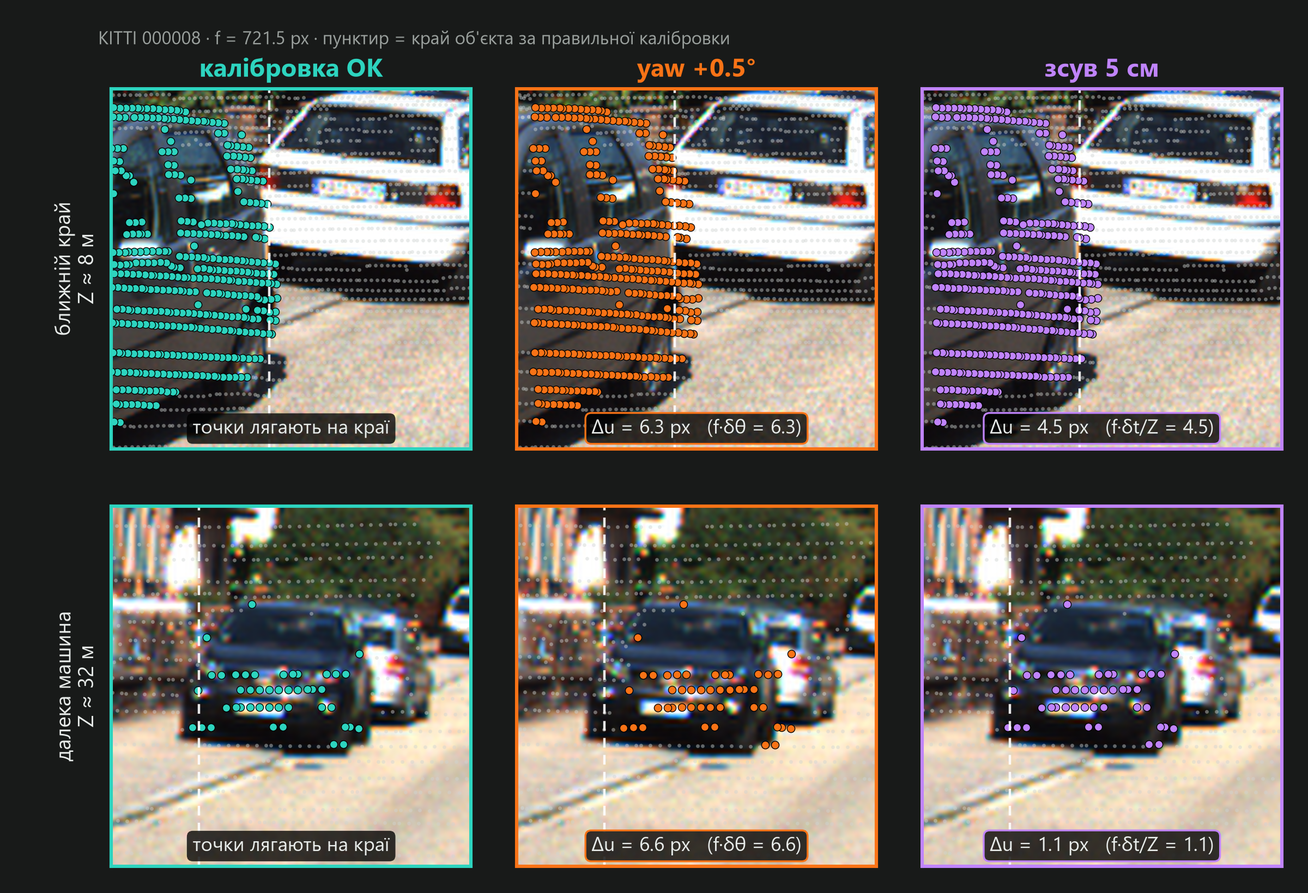
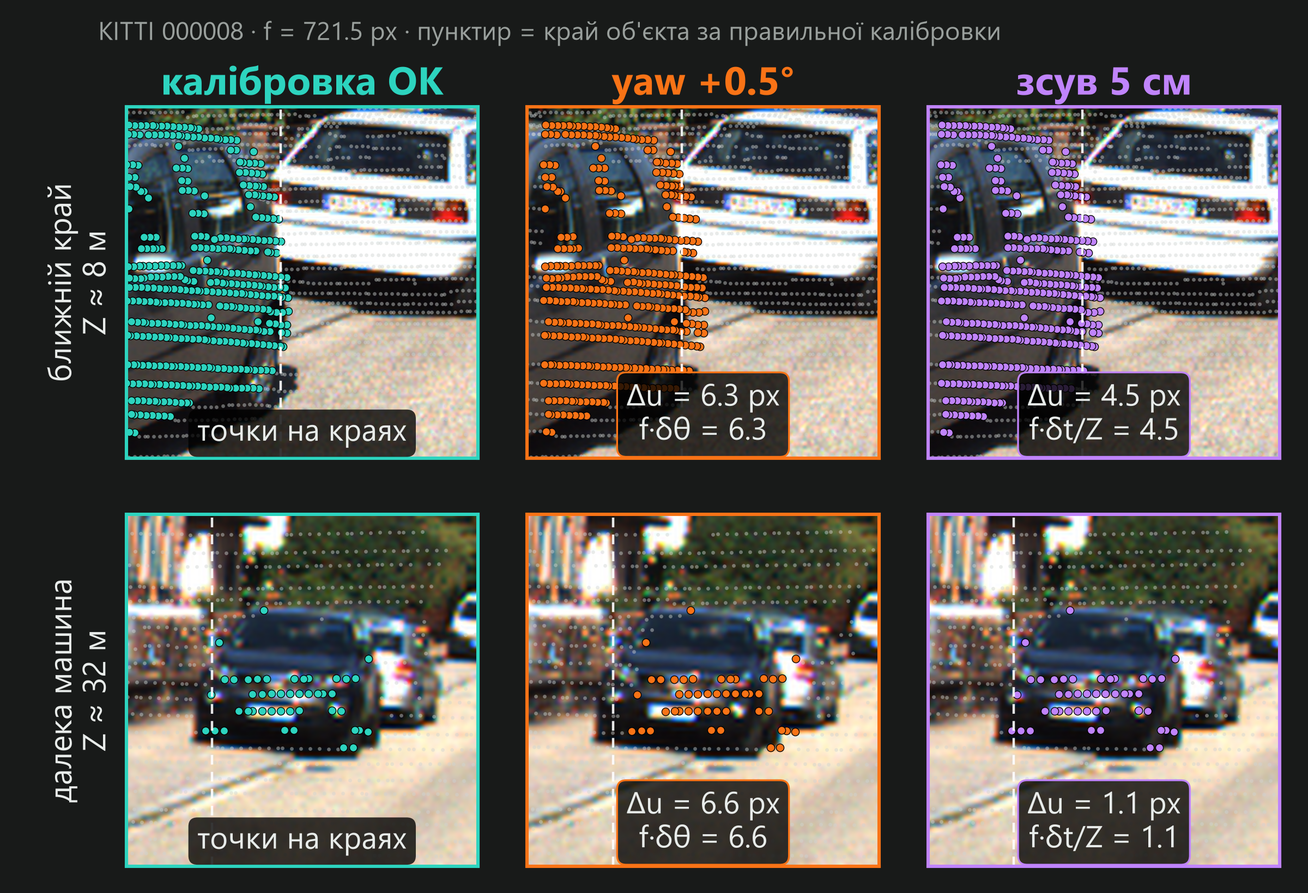
Slide 23: larger labels for slide-scale legibility

diff --git a/scripts/p23_calib_validation.py b/scripts/p23_calib_validation.py
@@ -52,7 +52,7 @@ WINDOWS = [("ближній край", 548, 178, 140, (4.0, 11.0), (334.85, 178.
 NOT_GROUND = Xc[1] < 1.45  # camera is 1.65 m above the road, y points down
 
 fig = plt.figure(figsize=(12, 8.2), facecolor=BG)
-gs = fig.add_gridspec(2, 3, left=0.075, right=0.99, top=0.90, bottom=0.03, wspace=0.05, hspace=0.16)
+gs = fig.add_gridspec(2, 3, left=0.085, right=0.99, top=0.88, bottom=0.03, wspace=0.05, hspace=0.16)
 cmap = plt.get_cmap("turbo")
 
 for r, (wlabel, wu, wv, ws, (zmin, zmax), (bx0, by0, bx1, by1), side) in enumerate(WINDOWS):
@@ -76,20 +76,20 @@ for r, (wlabel, wu, wv, ws, (zmin, zmax), (bx0, by0, bx1, by1), side) in enumera
         for sp in ax.spines.values():
             sp.set_color(accent); sp.set_linewidth(2.2)
         if r == 0:
-            ax.set_title(clabel, color=accent, fontsize=17, fontweight="bold", pad=8)
+            ax.set_title(clabel, color=accent, fontsize=26, fontweight="bold", pad=8)
         if col == 0:
-            ax.set_ylabel(f"{wlabel}\nZ ≈ {Z:.0f} м", color=FG, fontsize=14, labelpad=8)
-            txt = "точки лягають на краї"
+            ax.set_ylabel(f"{wlabel}\nZ ≈ {Z:.0f} м", color=FG, fontsize=21, labelpad=8)
+            txt = "точки на краях"
         else:
             du = float(np.median(u[obj] - u0[obj]))
             pred = f * YAW / np.cos(theta) ** 2 if col == 1 else f * DT / Z
             formula = "f·δθ" if col == 1 else "f·δt/Z"
-            txt = f"Δu = {du:.1f} px   ({formula} = {pred:.1f})"
+            txt = f"Δu = {du:.1f} px\n{formula} = {pred:.1f}"
             print(f"{wlabel:14s} Z={Z:5.1f} theta={np.rad2deg(theta):5.1f}deg {clabel:14s} du={du:5.2f} pred={pred:5.2f}")
-        ax.text(0.5, 0.03, txt, transform=ax.transAxes, ha="center", va="bottom", color=FG, fontsize=13,
+        ax.text(0.5, 0.03, txt, transform=ax.transAxes, ha="center", va="bottom", color=FG, fontsize=20,
                 bbox=dict(boxstyle="round,pad=0.3", fc="#000000c8", ec=accent if col else "none", lw=1.2))
 
-fig.text(0.075, 0.955, f"KITTI {stem} · f = {f:.1f} px · пунктир = край об'єкта за правильної калібровки",
-         color=MUTED, fontsize=12, va="center")
+fig.text(0.075, 0.962, f"KITTI {stem} · f = {f:.1f} px · пунктир = край об'єкта за правильної калібровки",
+         color=MUTED, fontsize=17, va="center")
 fig.savefig(out, dpi=200, facecolor=BG)
 print("saved", out)
